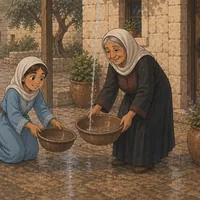
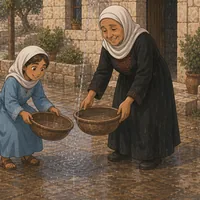
🧕 حجابُ المرأة خارج بيتها يستر الشعرَ كلَّه — قاعدةٌ في دليل القصص، وصورٌ أُعيدت عليها
كانت مقدّمةُ الشعر تظهر من تحت المنديل في الساحة: أمُّ لينا والنساءُ عند الصهريج (١ و٥ و٩)، والخالةُ أمُّ جميلٍ تحت المطر (١٠ والغلاف)، والأمّهاتُ بالفوانيس في «الذي كانوا يضحكون منه» (٩). فأُعيد رسمُها بحجابٍ لا تظهر منه شعرة، ورُفع rev للقصّتين فتصل الصورُ الجديدةُ من فتحهما. و«كيف أضيف قصّة» فيه القاعدةُ الآن: للبالغة خارج بيتها، وللكومبارس كالشخصيّة، ولا تشمل البناتِ الصغيرات.

diff --git a/stories/كيف-أضيف-قصة.md b/stories/كيف-أضيف-قصة.md
@@ -31,6 +31,14 @@
 تطلب نسبةً نحوَ ٢٫١٦:١. فالواسعةُ تملؤها بقصّ ١٨٪، ونسخةُ ٤:٣ لا تملؤها
 إلّا بقصّ ٣٨٪ — يذهب فيه رأسُ الجبل ومرجُ الزهر.
 
+### ما يُرسم
+
+- **حجابُ المرأة البالغة خارج بيتها يستر الشعرَ كلَّه**: لا مقدّمةَ شعرٍ ولا
+  خصلة، والرقبةُ مستورة — في الساحة والطريق وأمام الباب، وللكومبارس في
+  الخلفيّة كما للشخصيّة. والبناتُ الصغيرات لا تشملهنّ.
+  ونماذجُ الصور تُظهر مقدّمةَ الشعر من تلقاء نفسها، فاكتبْها صريحةً في وصف
+  كلّ صورة، وافحصْ الصورةَ مكبَّرةً قبل رفعها.
+
 ### الغلاف
 
 مربّعٌ **٢٠٠ × ٢٠٠** بكسل — يظهر صغيراً في قائمة القصص.
